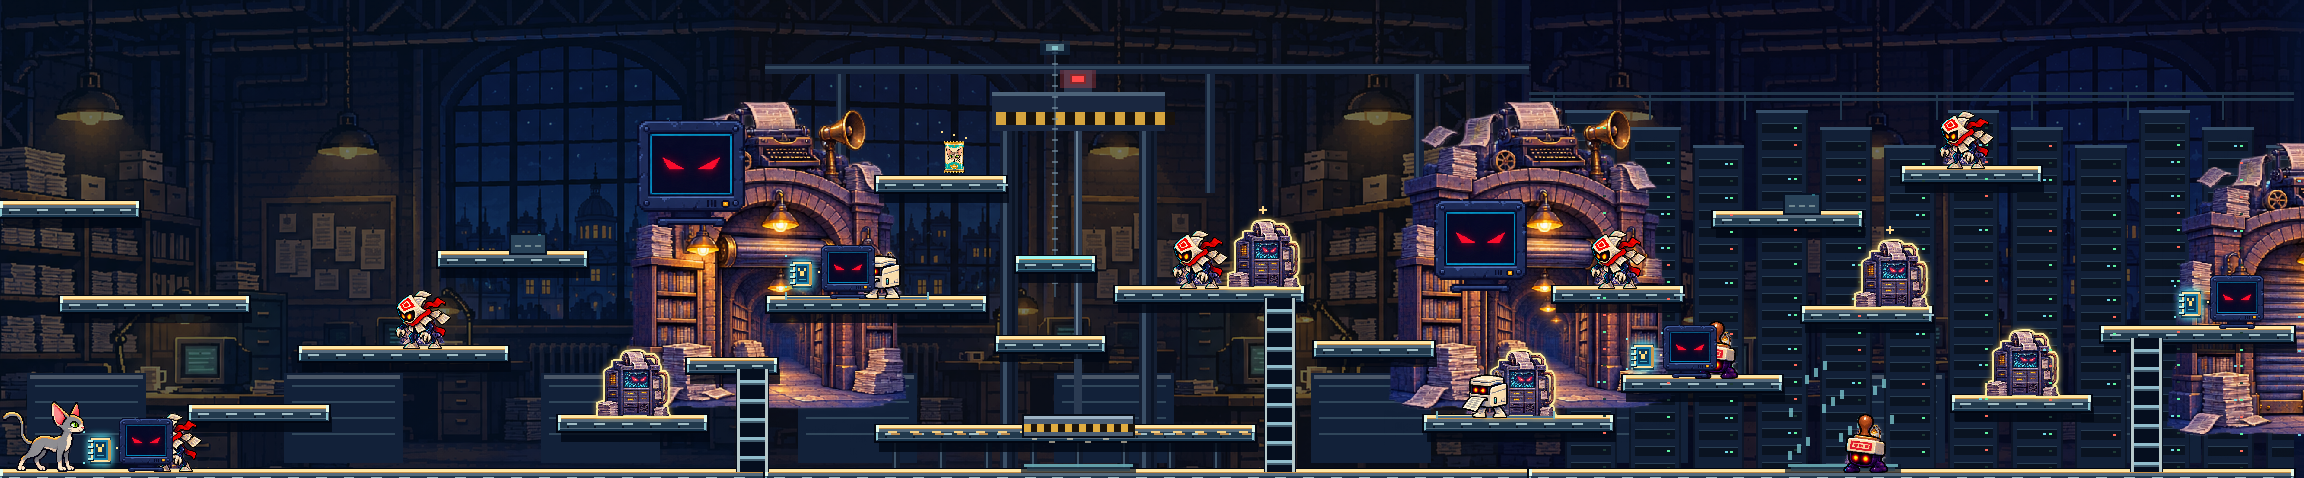
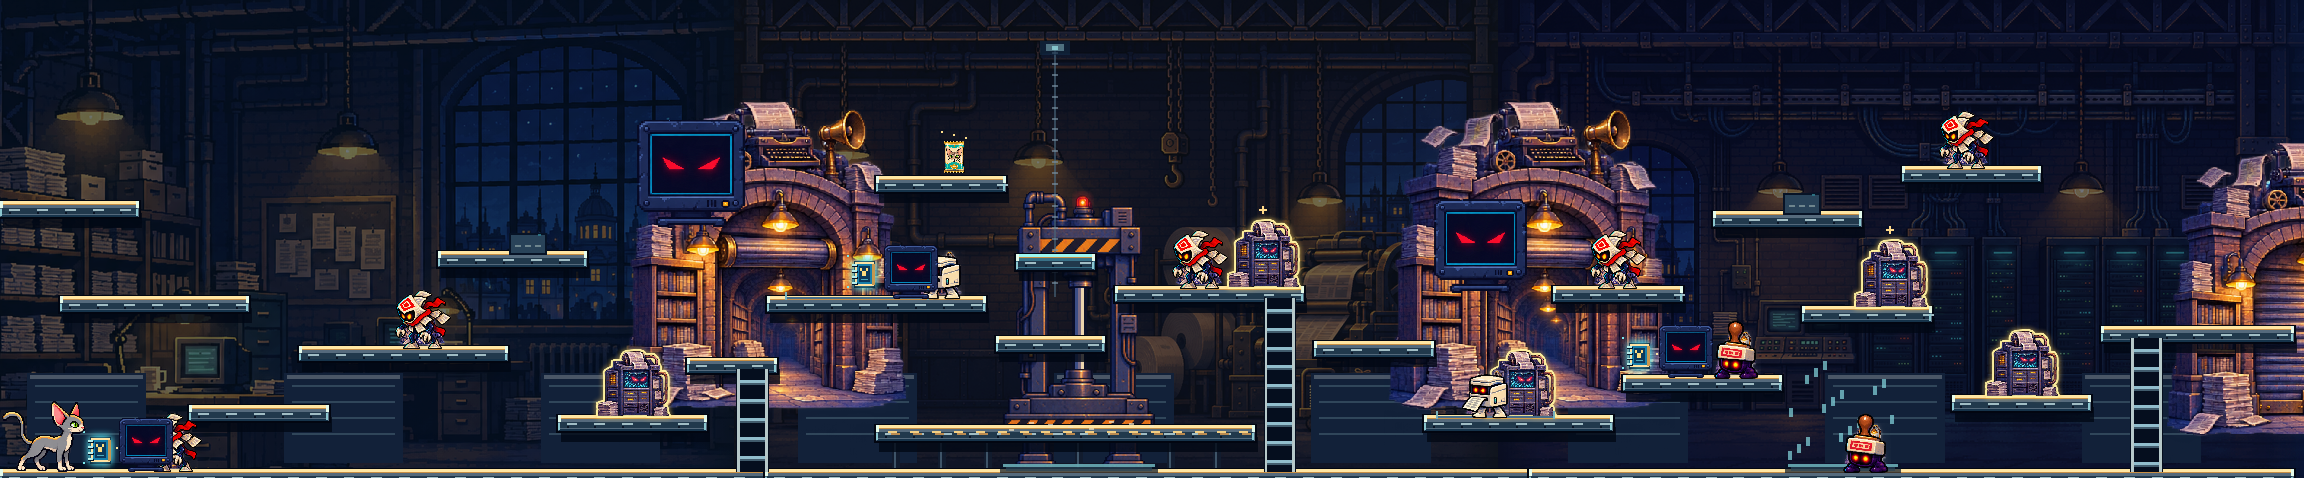
Newsroom: painted print shop and server room backdrops, sprite press
- New assets: newsroom-blocks.png (print shop | server room backdrops) and
  newsroom-press.png (frame, head, lamp off/on). Editorial hall keeps the
  chapter backdrop; seams between paintings are softened.
- The press is drawn from sprites in world space behind the catwalk and the
  belt; its piston rod is drawn at any length so the head travels 71 px.
- The lower-path hazard of the print shop now spans exactly the head width.
- Remove the code-drawn racks, pipes and frame that the paintings replace.

Claude-Session: https://claude.ai/code/session_01CNS5ua52pLKCa7cQw7qmFC

diff --git a/newsroom-art.js b/newsroom-art.js
@@ -1,74 +1,46 @@
 import {rooms} from './level.js?v=0.21.5';
 import {rect} from './pixel.js?v=0.21.5';
-// Newsroom block identity: the print shop gets a stamping press over the conveyor,
-// the server room gets rows of racks. Coordinates are local to the newsroom (room 1).
-export const PRESS={x:1028,w:110,rest:360,strike:418,section:1};
-const racks=[];for(let x=1572;x<2300;x+=64)racks.push(x);
+import {PRESS} from './chapter-routes.js?v=0.21.5';
+// Newsroom block identity. Backdrops for the print shop and server room come from
+// assets/newsroom-blocks.png (see campaign-art.js); the press is drawn here from
+// assets/newsroom-press.png in world space so it stays locked to the conveyor.
+// Atlas boxes: frame, head, lamp off, lamp on.
+const FRAME=[0,0,132,282],HEAD=[140,0,153,65],LAMP_OFF=[140,72,19,18],LAMP_ON=[166,70,22,24];
+// Positions inside the frame sprite.
+const LAMP_AT=[61,4],CYLINDER_BOTTOM=97,ROD=[59,15];
+const ROD_COLORS=['#0a0e26','#3b4d85','#796a84','#edd5ae','#0d1129'];
+export const PRESS_REST=300,PRESS_STRIKE=371;
 
-// Static machinery, cached once and drawn in world space so it stays locked to the platforms
-// (the backdrop itself scrolls with parallax).
-function paintScenery(c){
- // Print shop: overhead pipe run and the press frame behind the paper dip.
- rect(c,768,64,768,10,'#16233a');rect(c,768,66,768,3,'#31465c');
- for(const x of [840,1210,1420]){rect(c,x,74,10,120,'#16233a');rect(c,x+2,74,3,120,'#31465c');}
- const fx=PRESS.x-24,fw=PRESS.w+48;
- for(const x of [fx,fx+fw-18]){rect(c,x,112,18,362,'#141f33');rect(c,x+3,112,4,362,'#3a4f66');rect(c,x+12,112,3,362,'#0b1424');}
- rect(c,fx-8,92,fw+16,40,'#1a2740');rect(c,fx-8,92,fw+16,4,'#4d6379');
- for(let x=fx-4;x<fx+fw+6;x+=20){rect(c,x,112,10,14,'#d6a43e');rect(c,x+10,112,10,14,'#18120c');}
- rect(c,PRESS.x+PRESS.w/2-14,70,28,22,'#26344b');rect(c,PRESS.x+PRESS.w/2-8,74,16,10,'#5a1c22');
- rect(c,PRESS.x+PRESS.w/2-4,132,8,PRESS.rest-132,'#2b3b52');rect(c,PRESS.x+PRESS.w/2-2,132,2,PRESS.rest-132,'#6b8296');
- // Conveyor legs and rollers under the belt.
- for(let x=896;x<1260;x+=46){rect(c,x,443,8,31,'#121c2e');rect(c,x+2,443,2,31,'#3e5468');}
- // Server room: racks with dark faces, slots and cable trays.
- c.save();c.globalAlpha=.92;
- for(const [i,x] of racks.entries()){
-  const top=110+(i%3)*18;rect(c,x,top,52,474-top,'#0c1626');rect(c,x+2,top+2,48,474-top-2,'#14223a');rect(c,x,top,52,3,'#3b5570');
-  for(let y=top+14;y<466;y+=17){rect(c,x+6,y,40,10,'#0a1220');rect(c,x+6,y,40,1,'#2c4258');rect(c,x+38,y+4,3,2,'#1d3a35');}
- }
- c.restore();
- for(const y of [92,98]){rect(c,1536,y,768,3,'#20354a');}
- for(let x=1560;x<2300;x+=96){rect(c,x,95,2,26,'#20354a');}
-}
-
-let cache=null;
-export function drawNewsroomScenery(c,g){
- if(g.room!==1||typeof document==='undefined')return;
- if(!cache){cache=document.createElement('canvas');cache.width=rooms[1].width;cache.height=480;const k=cache.getContext('2d');k.imageSmoothingEnabled=false;paintScenery(k);}
- c.drawImage(cache,rooms[1].x,0);
-}
-
-function pressPhase(g,t){
+export function pressState(g,t){
  const control=g.mapProps?.find(d=>d.room===1&&d.section===PRESS.section);
  if(!control?.hp)return{active:false,drop:0,warn:false};
- const phase=(t+PRESS.section*.8)%5;
- const warn=phase<1.2,strike=phase>=1.2&&phase<=2.2;
+ const phase=(t+PRESS.section*.8)%5,warn=phase<1.2,strike=phase>=1.2&&phase<=2.2;
  const drop=strike?Math.min(1,(phase-1.2)/.12):phase>2.2&&phase<2.7?1-(phase-2.2)/.5:0;
- return{active:true,drop,warn,phase};
+ return{active:true,drop,warn};
+}
+function part(c,image,box,x,y){c.drawImage(image,box[0],box[1],box[2],box[3],Math.round(x),Math.round(y),box[2],box[3]);}
+
+// Behind the platforms: the catwalk and the conveyor pass in front of the press.
+export function drawNewsroomScenery(c,a,g,t){
+ if(g.room!==1)return;
+ const r=rooms[1],cx=r.x+PRESS.x+PRESS.w/2,cam=g.camera,vw=g.viewWidth||768;
+ // Conveyor legs and rollers under the belt.
+ for(let x=r.x+896;x<r.x+1260;x+=46)if(x>cam-20&&x<cam+vw+20){rect(c,x,443,8,31,'#121c2e');rect(c,x+2,443,2,31,'#3e5468');}
+ const image=a.newsroomPress;if(!image||cx<cam-120||cx>cam+vw+120)return;
+ const s=pressState(g,t),fx=cx-FRAME[2]/2,fy=474-FRAME[3],shake=s.warn?Math.round(Math.sin(t*40)):0;
+ part(c,image,FRAME,fx,fy);
+ const lit=s.active&&(s.warn?Math.floor(t*8)%2===0:s.drop>0);
+ if(lit)part(c,image,LAMP_ON,fx+LAMP_AT[0]-2,fy+LAMP_AT[1]-4);else if(!s.active)part(c,image,LAMP_OFF,fx+LAMP_AT[0],fy+LAMP_AT[1]);
+ const top=Math.round(PRESS_REST+(PRESS_STRIKE-PRESS_REST)*s.drop),rodTop=fy+CYLINDER_BOTTOM;
+ for(const [i,color] of ROD_COLORS.entries())rect(c,fx+ROD[0]+i*3+shake,rodTop,3,top-rodTop+6,color);
+ part(c,image,HEAD,cx-HEAD[2]/2+shake,top);
 }
 
-// Animated parts, drawn in world space over the platforms.
+// Over the platforms: paper bursting out when the head lands on the belt.
 export function drawNewsroomMachines(c,g,t){
  if(g.room!==1)return;
- const r=rooms[1],cam=g.camera,vw=g.viewWidth||768;
- const px=r.x+PRESS.x;
- if(px+PRESS.w>cam-60&&px<cam+vw+60){
-  const s=pressPhase(g,t),y=Math.round(PRESS.rest+(PRESS.strike-PRESS.rest)*s.drop),shake=s.warn?Math.round(Math.sin(t*40)):0;
-  rect(c,px+PRESS.w/2-4+shake,PRESS.rest,8,y-PRESS.rest,'#2b3b52');
-  rect(c,px+shake-2,y-2,PRESS.w+4,24,'#070d18');rect(c,px+shake,y,PRESS.w,20,'#4b5e74');rect(c,px+shake,y,PRESS.w,3,'#9db3c4');
-  for(let x=0;x<PRESS.w;x+=14){rect(c,px+shake+x,y+8,7,8,s.active?'#e0ac40':'#6d6250');rect(c,px+shake+x+7,y+8,7,8,'#1b140c');}
-  const lamp=s.active&&(s.warn?Math.floor(t*8)%2===0:s.drop>0);
-  rect(c,px+PRESS.w/2-6,76,12,6,lamp?'#ff4a4a':s.active?'#5a1c22':'#22303f');
-  if(lamp){c.save();c.globalAlpha=.25;rect(c,px+PRESS.w/2-18,70,36,18,'#ff4a4a');c.restore();}
-  if(s.drop===1){c.save();c.globalAlpha=.6;for(let k=0;k<6;k++)rect(c,px+8+k*18,y+22+(k%2)*3,6,2,'#f2e6c8');c.restore();}
- }
- // Server LEDs blink; they dim once the server controller is broken.
- const server=g.mapProps?.find(d=>d.room===1&&d.section===2),on=!!server?.hp;
- for(const [i,lx] of racks.entries()){
-  const x=r.x+lx;if(x<cam-60||x>cam+vw+60)continue;const top=110+(i%3)*18;
-  for(let y=top+18,k=0;y<466;y+=17,k++){
-   const blink=(Math.floor(t*(2+(i+k)%3))+i*7+k*3)%5;
-   rect(c,x+38,y,3,2,on?(blink===0?'#ff6a5a':blink<3?'#5ef2a1':'#1d3a35'):(k%4===0?'#2d6b5a':'#14302b'));
-   if(on&&blink===1)rect(c,x+32,y,3,2,'#6fd8e8');
-  }
- }
+ const s=pressState(g,t);if(s.drop<1)return;
+ const x=rooms[1].x+PRESS.x;c.save();c.globalAlpha=.7;
+ for(let k=0;k<8;k++)rect(c,x+6+k*(PRESS.w-12)/7,PRESS_STRIKE+60-((k*7+Math.floor(t*30))%9),5,2,'#f2e6c8');
+ c.restore();
 }

diff --git a/assets.js b/assets.js
@@ -1,4 +1,4 @@
-const sources={agitator:'./assets/agitator-poses.png',agitatorRoof:'./assets/agitator-rooftops.png',agitatorAntennas:'./assets/agitator-antennas.png',agitatorEffects:'./assets/agitator-effects.png',infoshumTentacle:'./assets/infoshum-tentacle.png',manipulator:'./assets/manipulator-poses.png',studioArena:'./assets/studio-arena.png',studioProps:'./assets/studio-props.png',routeLandmarks:'./assets/route-landmarks.png',infoshumEffects:'./assets/infoshum-effects-pixels.png',infoshumCRT:'./assets/infoshum-monitor-pixels.png',infoshumBody:'./assets/infoshum-body-pixels.png',infoshumTerminal:'./assets/infoshum-monitor-pixels.png',infoshumArenaNetwork:'./assets/infoshum-arena-pixels.png',infoshumArenaFree:'./assets/infoshum-arena-pixels.png',infoshumPlatform:'./assets/infoshum-platform-pixels.png',spreaderPages:'./assets/spreader-pages.png',spreaderArena:'./assets/spreader-arena.png',spreaderFeeders:'./assets/spreader-feeders.png',servant:'./assets/spreader-minion.png',menuPortrait:'./assets/menu-portrait-classic.png',yuriEmotions:'./assets/yuri-emotions.png',storyTransitions:'./assets/story-transitions.png',rewind:'./assets/story-rewind.png',projectiles:'./assets/projectile-sprites.png',burrows:'./assets/cat-burrows.png',defeat:'./assets/infoshum-defeat.png',wings:'./assets/quiet-room-wings.png',barriers:'./assets/chapter-barriers.png',sources:'./assets/monster-sources.png',destructibles:'./assets/map-destructibles.png',interludes:'./assets/chapter-interludes.png',opening:'./assets/opening-slides.png',room:'./assets/newsroom.png',uma:'./assets/uma.png',noise:'./assets/noise.png',menu:'./assets/menu-compact.png',library:'./assets/library-room.png',idle:'./assets/uma-idle.png',monsters:'./assets/monsters.png',monsterMotion:'./assets/monster-motion.png',journey:'./assets/journey-rooms.png',yuri:'./assets/yuri-cartoon.png',journalists:'./assets/journalists.png',emotions:'./assets/uma-emotions.png',reactions:'./assets/monster-reactions.png',newMotion:'./assets/new-monsters.png',traversal:'./assets/uma-traversal.png',cozy:'./assets/quiet-room.png',baitMotion:'./assets/clickbait-emerge.png',gaits:'./assets/monster-gaits.png',dimension:'./assets/noise-dimension.png',dishes:'./assets/satellite-dishes.png',tactics:'./assets/tactical-monsters.png',rest:'./assets/uma-rest-slide.png',campaign:'./assets/campaign-monsters.png',minibosses:'./assets/minibosses.png',backdrops:'./assets/chapter-backdrops.png',monitors:'./assets/haunted-monitors.png',ending:'./assets/ending-slides.png'};
+const sources={newsroomBlocks:'./assets/newsroom-blocks.png',newsroomPress:'./assets/newsroom-press.png',agitator:'./assets/agitator-poses.png',agitatorRoof:'./assets/agitator-rooftops.png',agitatorAntennas:'./assets/agitator-antennas.png',agitatorEffects:'./assets/agitator-effects.png',infoshumTentacle:'./assets/infoshum-tentacle.png',manipulator:'./assets/manipulator-poses.png',studioArena:'./assets/studio-arena.png',studioProps:'./assets/studio-props.png',routeLandmarks:'./assets/route-landmarks.png',infoshumEffects:'./assets/infoshum-effects-pixels.png',infoshumCRT:'./assets/infoshum-monitor-pixels.png',infoshumBody:'./assets/infoshum-body-pixels.png',infoshumTerminal:'./assets/infoshum-monitor-pixels.png',infoshumArenaNetwork:'./assets/infoshum-arena-pixels.png',infoshumArenaFree:'./assets/infoshum-arena-pixels.png',infoshumPlatform:'./assets/infoshum-platform-pixels.png',spreaderPages:'./assets/spreader-pages.png',spreaderArena:'./assets/spreader-arena.png',spreaderFeeders:'./assets/spreader-feeders.png',servant:'./assets/spreader-minion.png',menuPortrait:'./assets/menu-portrait-classic.png',yuriEmotions:'./assets/yuri-emotions.png',storyTransitions:'./assets/story-transitions.png',rewind:'./assets/story-rewind.png',projectiles:'./assets/projectile-sprites.png',burrows:'./assets/cat-burrows.png',defeat:'./assets/infoshum-defeat.png',wings:'./assets/quiet-room-wings.png',barriers:'./assets/chapter-barriers.png',sources:'./assets/monster-sources.png',destructibles:'./assets/map-destructibles.png',interludes:'./assets/chapter-interludes.png',opening:'./assets/opening-slides.png',room:'./assets/newsroom.png',uma:'./assets/uma.png',noise:'./assets/noise.png',menu:'./assets/menu-compact.png',library:'./assets/library-room.png',idle:'./assets/uma-idle.png',monsters:'./assets/monsters.png',monsterMotion:'./assets/monster-motion.png',journey:'./assets/journey-rooms.png',yuri:'./assets/yuri-cartoon.png',journalists:'./assets/journalists.png',emotions:'./assets/uma-emotions.png',reactions:'./assets/monster-reactions.png',newMotion:'./assets/new-monsters.png',traversal:'./assets/uma-traversal.png',cozy:'./assets/quiet-room.png',baitMotion:'./assets/clickbait-emerge.png',gaits:'./assets/monster-gaits.png',dimension:'./assets/noise-dimension.png',dishes:'./assets/satellite-dishes.png',tactics:'./assets/tactical-monsters.png',rest:'./assets/uma-rest-slide.png',campaign:'./assets/campaign-monsters.png',minibosses:'./assets/minibosses.png',backdrops:'./assets/chapter-backdrops.png',monitors:'./assets/haunted-monitors.png',ending:'./assets/ending-slides.png'};
 export async function loadAssets(onProgress=()=>{}){
  let done=0,failed=false;
  const entries=await Promise.all(Object.entries(sources).map(async([name,path])=>{const image=new Image(),url=new URL(path,import.meta.url);url.searchParams.set('v','0.21.5');image.src=url.href;try{await image.decode();}catch(error){failed=true;throw error;}done++;if(!failed)onProgress(done,Object.keys(sources).length);return[name,image];}));

diff --git a/campaign-art.js b/campaign-art.js
@@ -13,8 +13,14 @@ export function sceneLayers(assets){
   const index={newsroom:0,roofs:1,studio:2,noise:3}[room.theme],sw=assets.backdrops.width/2,sh=assets.backdrops.height/2;
   c.filter='saturate(.62) brightness(.65)';
   for(let offset=0;offset<room.width;offset+=768){
+   // Newsroom blocks: editorial hall keeps the chapter backdrop; print shop and server room have their own.
+   if(room.index===1&&offset>0&&assets.newsroomBlocks){c.drawImage(assets.newsroomBlocks,offset===768?0:768,0,768,512,offset,0,768,512);continue;}
    c.save();c.translate(offset,0);if(offset===768){c.translate(768,0);c.scale(-1,1);}
    c.drawImage(assets.backdrops,(index%2)*sw,Math.floor(index/2)*sh,sw,sh,0,0,768,512);c.restore();
+  }
+  if(room.index===1&&assets.newsroomBlocks)for(const seam of[768,1536]){
+   // Soften the seams between different block paintings.
+   const fade=c.createLinearGradient(seam-40,0,seam+40,0);fade.addColorStop(0,'#06102400');fade.addColorStop(.5,'#061024aa');fade.addColorStop(1,'#06102400');c.fillStyle=fade;c.fillRect(seam-40,0,80,512);
   }
   c.filter='none';rect(c,0,0,canvas.width,512,room.arena?'#030c2338':'#03102340');
   // Subareas retain a shared newsroom world but have different machinery and light.
@@ -22,7 +28,7 @@ export function sceneLayers(assets){
   const x=section*768;c.save();c.globalAlpha=.12;rect(c,x,0,768,512,[['#16425c','#453921','#1e1949'],['#192a50','#4e2145','#133c4a'],['#312745','#155151','#452c2c'],['#211843','#123451','#41204a']][{newsroom:0,roofs:1,studio:2,noise:3}[room.theme]][section]);c.restore();
  }
  // Distant editorial and broadcast machinery varies the three-screen route.
-  if(room.theme==='newsroom')for(let i=0;i<9;i++){const x=58+i*258;rect(c,x,375,120,90,'#122139');rect(c,x+3,377,114,4,'#4a5666');for(let k=0;k<4;k++)rect(c,x+8,387+k*16,104,2,'#30465a');}
+  if(room.theme==='newsroom')for(let i=0;i<(room.index===1&&assets.newsroomBlocks?3:9);i++){const x=58+i*258;rect(c,x,375,120,90,'#122139');rect(c,x+3,377,114,4,'#4a5666');for(let k=0;k<4;k++)rect(c,x+8,387+k*16,104,2,'#30465a');}
   if(room.arena&&room.theme==='roofs')for(const x of [room.width*.25,room.width*.73]){rect(c,x,54,8,350,'#26374f');for(let y=60;y<400;y+=28){rect(c,x-16,y,40,3,'#344d63');}}
   if(room.arena&&room.theme==='studio')for(let i=0;i<5;i++){const x=110+i*285;rect(c,x,25,75,26,'#284255');rect(c,x+6,30,63,15,'#597286');}
   return canvas;

diff --git a/chapter-routes.js b/chapter-routes.js
@@ -1,5 +1,8 @@
 import {rooms,platforms} from './level.js?v=0.21.5';
 export const sectionNames={1:['Редакционный зал','Печатный цех','Серверная'],3:['Переулок антенн','Рекламные крыши','Мачтовый квартал'],5:['За кулисами','Подвижная сцена','Монтажная'],7:['Бумажные острова','Разбитые отражения','Порог Инфошума']};
+// The newsroom press: its head spans this local x range; the lower-path hazard of that block follows it.
+export const PRESS={x:1007,w:153,section:1};
+export function hazardZone(room,section){return room===1&&section===PRESS.section?[PRESS.x-768,PRESS.x-768+PRESS.w]:[260,370];}
 export const propKinds={1:'server',3:'power',5:'console',7:'anchor'};
 export function createMapProps(){return [1,3,5,7].flatMap(room=>(room===5?[12,22]:room===1?[10,17]:[10,20]).map((index,i)=>{const p=platforms.find(p=>p.room===room&&p.index===index);return{id:`control-${room}-${i}`,room,platformIndex:index,kind:propKinds[room],x:p.x+p.w-66,y:p.y-62,w:48,h:62,hp:1,breakTime:0,lastSwing:-1,section:i+1};}));}
 export function createRoutePortals(){return [3,5,7].flatMap(room=>[0,1].map(i=>({room,id:`burrow-${room}-${i}`,fromIndex:room===3?(i?12:9):room===5?(i?24:15):(i?22:13),toIndex:room===3?(i?25:17):room===5?(i?27:19):(i?25:17),cooldown:0})));}
@@ -30,7 +33,7 @@ export function stepLocationHazards(g,dt){
  const p=g.player,index=Math.min(2,Math.max(0,Math.floor((p.x-rooms[g.room].x)/768))),control=g.mapProps.find(d=>d.room===g.room&&d.section===index);
  if(index===0||!control?.hp)return;
  const t=(g.time+index*.8)%5,local=p.x-rooms[g.room].x-index*768;
- if(t<1.2||t>2.2||local<260||local>370)return;
+ const [from,to]=hazardZone(g.room,index);if(t<1.2||t>2.2||local<from||local>to)return;
  if(g.room===3){if(!p.knock)g.push(-1,p.x+100);}
  else if(g.room===7){p.vy=Math.min(p.vy,-230);p.grounded=false;}
  else if(g.room===1?p.y+p.h>360:p.y>180)g.hurt(false,p.x+100);

diff --git a/chapter-route-art.js b/chapter-route-art.js
@@ -1,4 +1,5 @@
 import {rooms} from './level.js?v=0.21.5';
+import {hazardZone} from './chapter-routes.js?v=0.21.5';
 import {rect,text} from './pixel.js?v=0.21.5';
 import {drawTargetSprite} from './target-art.js?v=0.21.5';
 import {drawNewsroomMachines} from './newsroom-art.js?v=0.21.5';
@@ -15,7 +16,7 @@ export function drawMapProps(c,a,g,t){
   if(g.hintsEnabled!==false){rect(c,x-34,s.y-77,68,18,'#04132b');text(c,'↑ НОРКА',x-29,s.y-73,'#fff3ba');}
  }}
  // Warned environmental machinery belongs to each sector, and stops with its controller.
- for(const d of g.mapProps||[]){if(d.room!==g.room||!d.hp)continue;const phase=(t+d.section*.8)%5;if(phase>2.2)continue;const x=rooms[g.room].x+d.section*768+260,w=110,color=g.room===3?'#bfe9f0':g.room===5?'#ffdd8a':g.room===7?'#ba94f1':'#86d9e0';
+ for(const d of g.mapProps||[]){if(d.room!==g.room||!d.hp)continue;const phase=(t+d.section*.8)%5;if(phase>2.2)continue;const [from,to]=hazardZone(g.room,d.section),x=rooms[g.room].x+d.section*768+from,w=to-from,color=g.room===3?'#bfe9f0':g.room===5?'#ffdd8a':g.room===7?'#ba94f1':'#86d9e0';
   c.save();c.globalAlpha=phase<1.2?.25+.15*Math.sin(t*12):.7;
   rect(c,x-3,466,w+6,9,'#071224');rect(c,x,466,w,3,color);rect(c,x+3,469,w-6,4,'#294557');
   if(phase>=1.2&&!(g.room===1&&d.section===1))for(let k=0;k<18;k++){const yy=g.room===1?360+(k*29+t*155)%105:55+(k*29+t*(g.room===3?90:155))%410,xx=x+(k*17)%w;rect(c,xx,yy,g.room===3?18:4,g.room===3?2:9,color);}c.restore();

diff --git a/render.js b/render.js
@@ -50,7 +50,7 @@ export class Renderer{
   c.save();c.translate(worldInset,worldTop);c.scale(worldScale,worldScale);c.translate(-cam,0);
   for(const [i,room] of rooms.entries()){
    if(i!==g.room)continue;if(room.x+room.width+150<cam||room.x-150>cam+vw)continue;
-   drawBackdrop(c,this.backdrops[i],room,cam,roomDarkness(g.wakeTime));drawNewsroomScenery(c,g);drawAmbience(c,room,t);if(room.index===8)drawInfoshumBackdrop(c,a,g,t);if(room.index===6)drawStudioBackdrop(c,a,g,t);if(room.index===4)drawAgitatorBackdrop(c,a,g,t);
+   drawBackdrop(c,this.backdrops[i],room,cam,roomDarkness(g.wakeTime));drawNewsroomScenery(c,a,g,t);drawAmbience(c,room,t);if(room.index===8)drawInfoshumBackdrop(c,a,g,t);if(room.index===6)drawStudioBackdrop(c,a,g,t);if(room.index===4)drawAgitatorBackdrop(c,a,g,t);
   }
   if(cam<WIDTH+150)drawOpening(c,a,g);
   c.save();if(opening)c.globalAlpha=roomDarkness(g.wakeTime);

diff --git a/assets/README.md b/assets/README.md
@@ -11,6 +11,8 @@
   подготовка броска, бросок и восстановление.
 - `monster-motion.png` — по четыре позы рупора, Паникёра, Кликбейта и босса.
 - `newsroom.png` — исходная редакция и окружение первой главы.
+- `newsroom-blocks.png` — фоны второго и третьего блоков Редакции (768×512 каждый): печатный цех | серверная. Первый блок использует фон главы из `chapter-backdrops.png`.
+- `newsroom-press.png` — пресс печатного цеха: рама, головка, лампа выключена/горит. Шток рисуется кодом любой длины; координаты частей — в `newsroom-art.js`.
 - `journey-rooms.png` — атлас 2×2: ночная улица, типография, телестудия,
   башня эфира. Сохранён как референс; новая кампания использует `chapter-backdrops.png`.
 - `yuri-shmakov.png` — первый согласованный портрет Юрия для диалогов;
